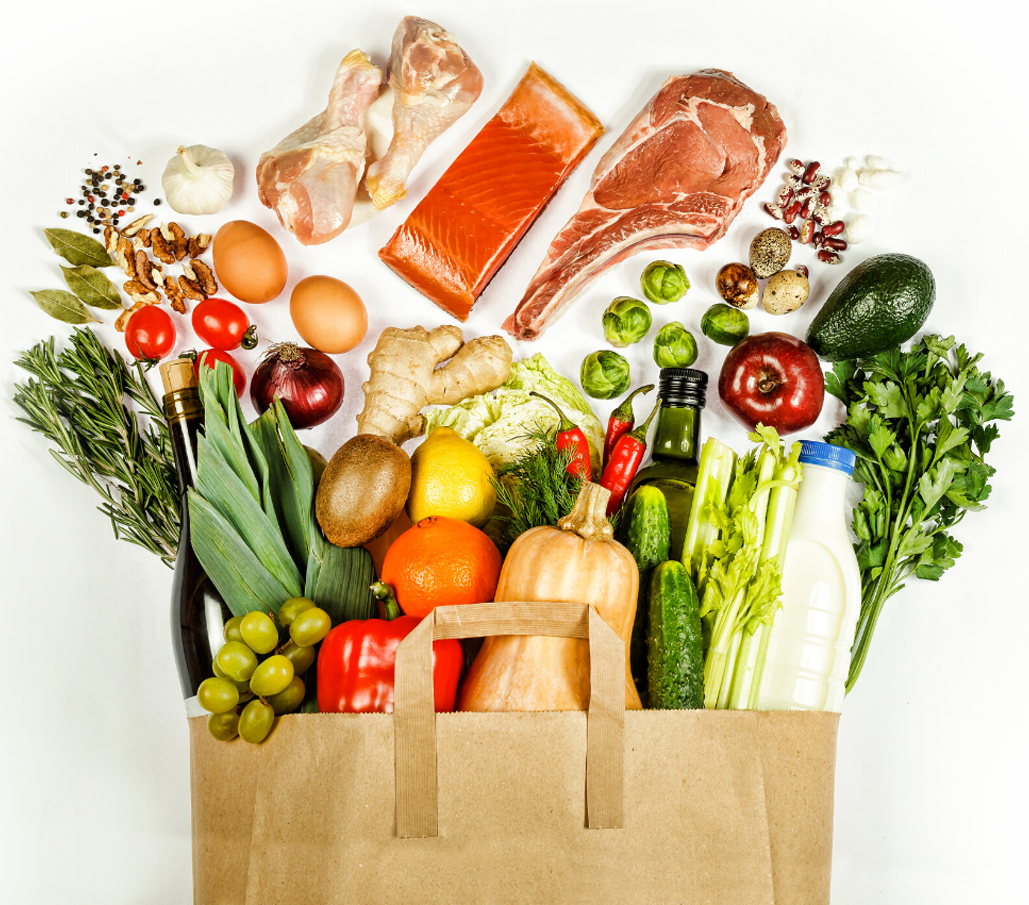
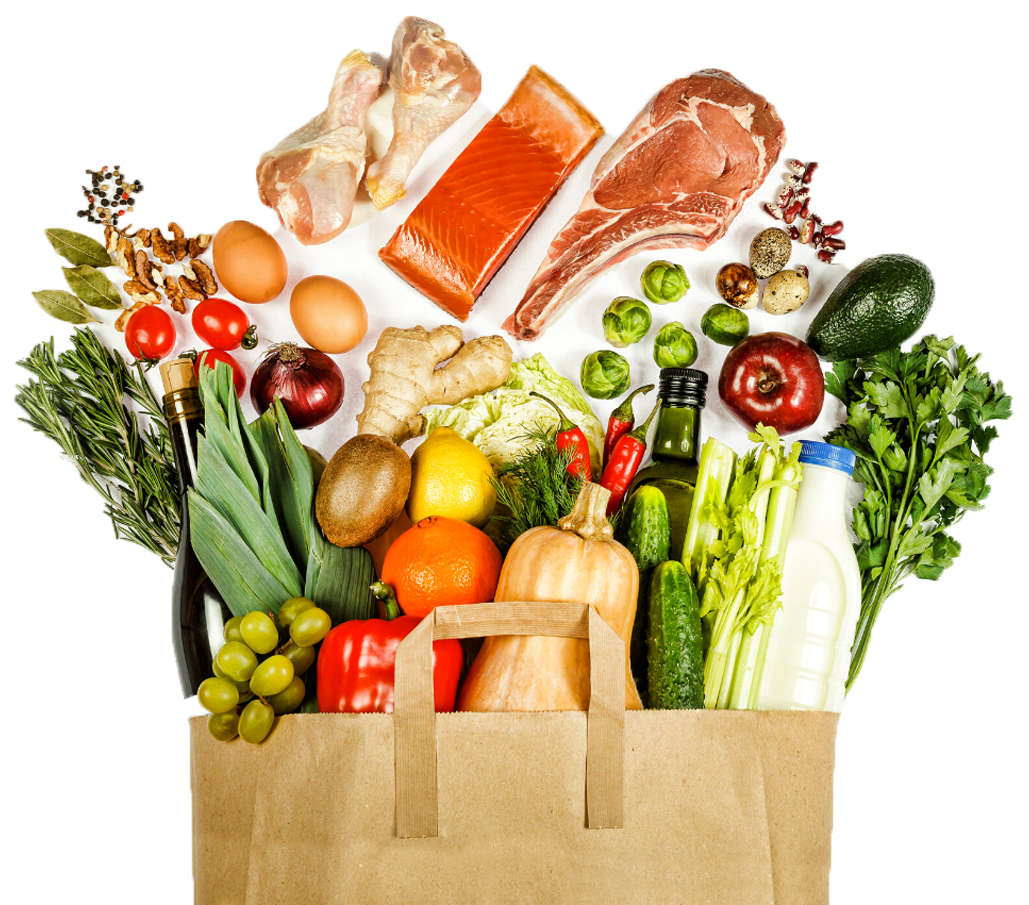
PAA2
transparent navbar, transparent landing image

diff --git a/paa2.html b/paa2.html
@@ -15,7 +15,7 @@
 </head>
 <body>
     <header class="header" id="landing">
-        <nav class="navbar navbar-expand-lg navbar-light bg-light">
+        <nav class="navbar navbar-expand-lg navbar-light bg-transparent">
             <div class="container">
                 <a class="navbar-brand" href="#">GROCERS</a>
                 <button class="navbar-toggler" type="button" data-toggle="collapse" data-target="#navbarSupportedContent" aria-controls="navbarSupportedContent" aria-expanded="false" aria-label="Toggle navigation">
@@ -299,7 +299,7 @@
         <div class="footer-upper">
             <div class="footer-text">
                 <h5>About GROCERS</h5>
-                <p>GROCERS is created by Julienne Andrea S. Panes in 2021. It is an online grocery monthly subscription platform that provides
+                <p>GROCERS is created by Julienne Andrea S. Panes in 2022. It is an online grocery monthly subscription platform that provides
                     customers quality goods for a reasonable price, all in the safety of their homes. GROCERS allows you to customize your package
                     that you can enjoy monthly. GROCERS is made by you, for you.</p>
             </div>
